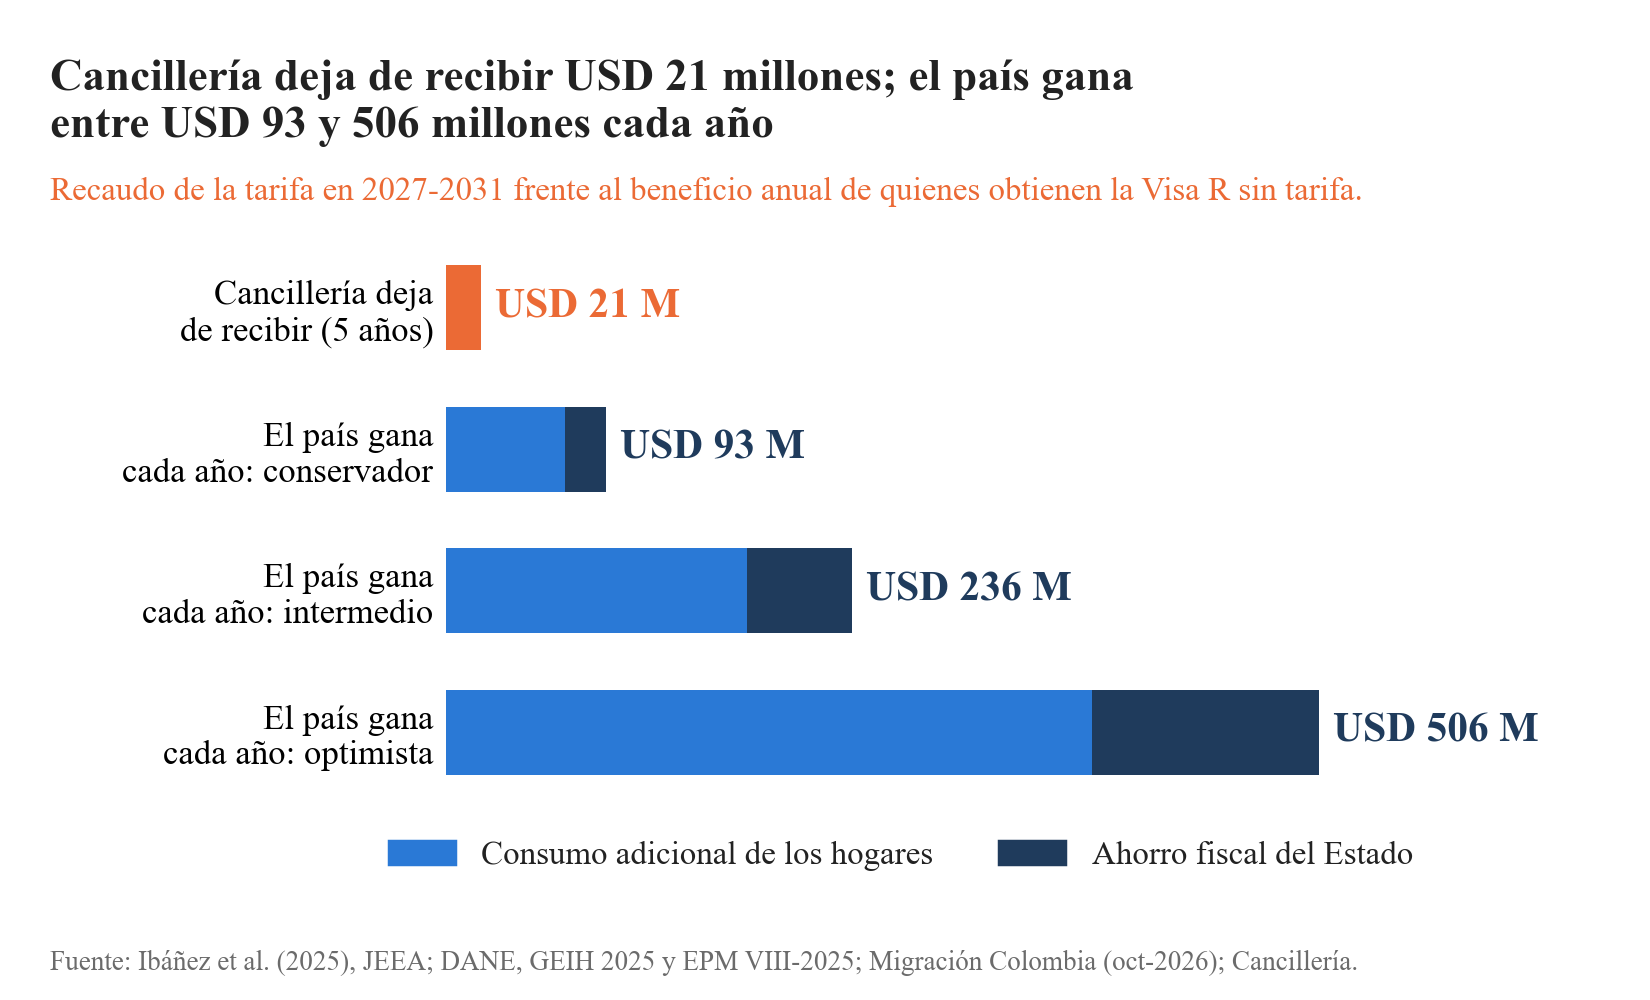
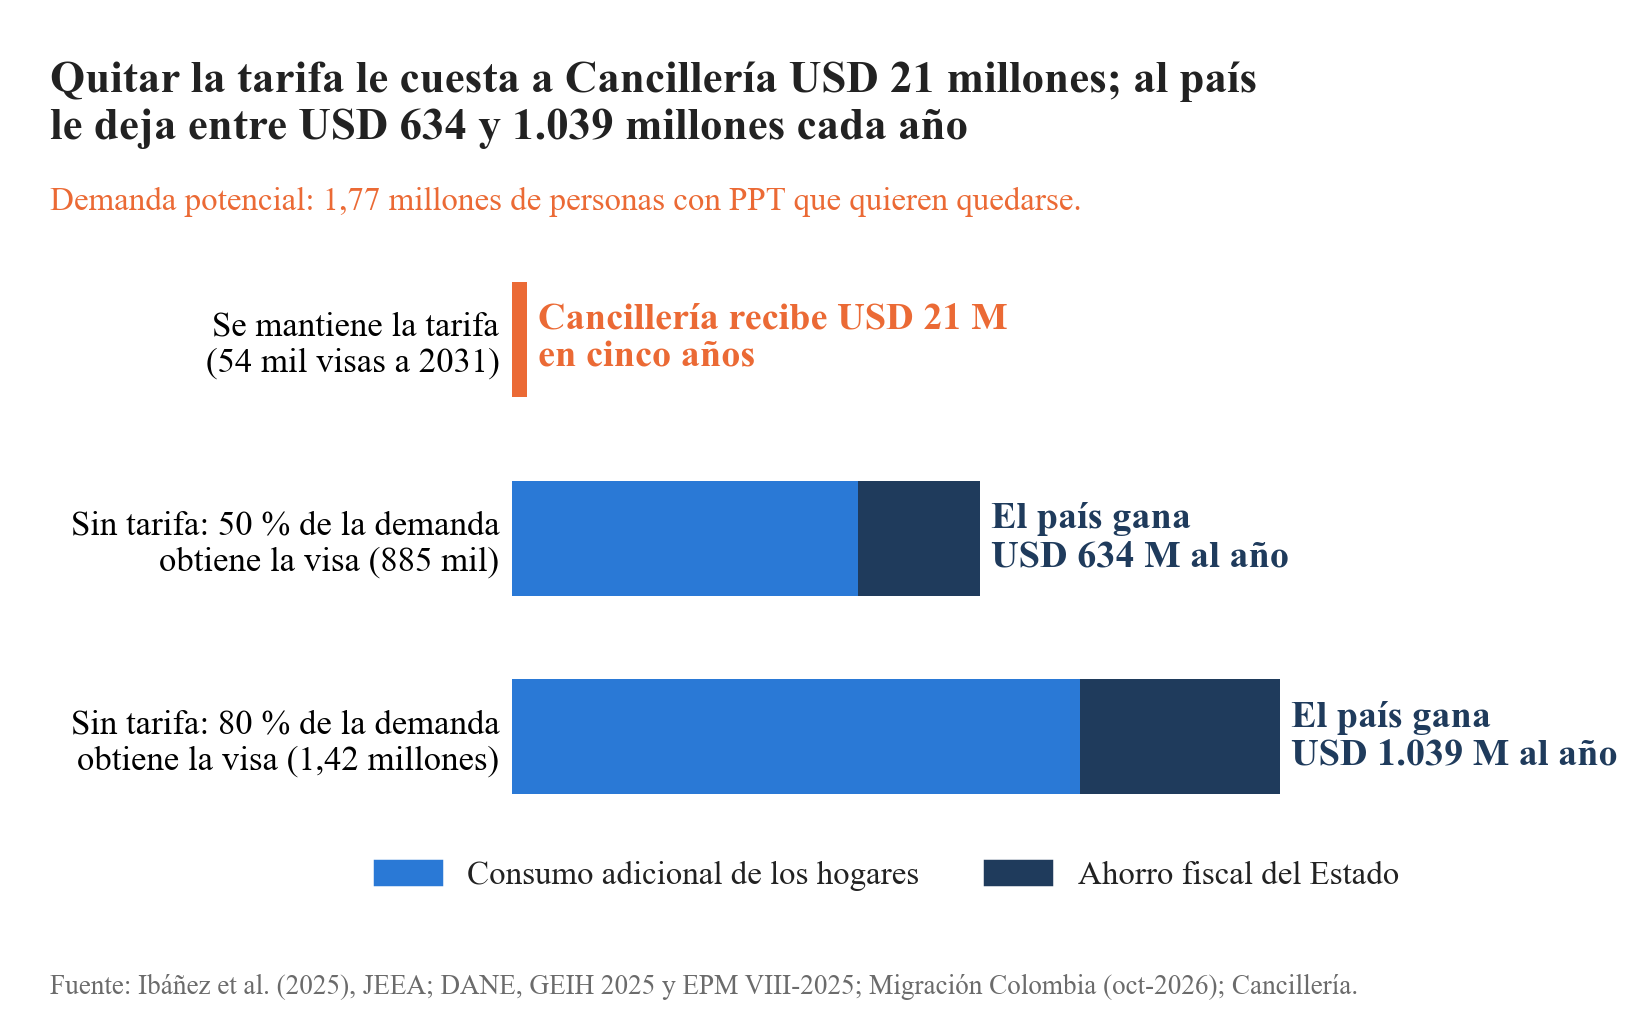
Grafico costo-beneficio con tres escenarios: tarifa, 50 % y 80 % de la demanda

diff --git a/Code/25_grafico_costo_beneficio_macro.py b/Code/25_grafico_costo_beneficio_macro.py
@@ -1,11 +1,15 @@
-"""Visa-R / 25: lo que Cancillería deja de recibir frente al beneficio económico para el país.
-Costo: recaudo de la tarifa con la tendencia de visas 2027-2031 = 44.580 visas x USD 464 = USD 20,7 M (en cinco años).
-Beneficio anual por cada persona adicional que conserva su estatus regular gracias a la gratuidad:
-  - Consumo adicional: el PEP aumenta 48 % el consumo por persona (Ibáñez et al., 2025, JEEA). Consumo base por persona =
-    masa salarial anual de los venezolanos (COP 13,8 billones, GEIH 2025) x (1 - 10 % ahorro - 10 % remesas) / 1,76 M venezolanos (GEIH 2025),
-    descompuesto entre regulares (66 %) e irregulares: C_irregular = C_promedio / (0,34 + 0,66 x 1,48). Ganancia = 0,48 x C_irregular.
+"""Visa-R / 25: lo que Cancillería deja de recibir frente al beneficio económico para el país (3 escenarios).
+Escenarios (sobre la demanda potencial: 1.770.136 personas con PPT que quieren quedarse):
+  1. Se mantiene la tarifa: visas por tendencia 2024-2026 = 53.733 a may-2031; Cancillería recauda 44.580 visas 2027-2031 x USD 464 = USD 20,7 M.
+  2. Sin tarifa, 50 % de la demanda obtiene la visa. Referencia: 54,8 % de los titulares de PPT abrió una cuenta financiera (EPM VIII-2025),
+     un paso formal voluntario que el permiso habilita y que exige trámites: cerca de la mitad lo da.
+  3. Sin tarifa, 80 % de la demanda obtiene la visa. Referencia: 81 % de los venezolanos con 5 años o más en Colombia está afiliado a salud
+     (GEIH 2025), un beneficio gratuito al que accede casi toda la población elegible. Por debajo de los techos: 86 % de quienes iniciaron el ETPV
+     obtuvo el PPT (Migración Colombia) y 89,6 % quiere quedarse (EPM).
+Beneficio anual por persona adicional con visa (frente al escenario 1):
+  - Consumo adicional: +48 % por el permiso (Ibáñez et al., 2025). Consumo base = masa salarial COP 13,8 billones x (1 - 10 % ahorro - 10 % remesas)
+    / 1,76 M venezolanos (GEIH 2025); C_irregular = C_promedio / (0,34 + 0,66 x 1,48); ganancia = 0,48 x C_irregular = USD 564 (TRM 4.052,86).
   - Ahorro fiscal: USD 198,29 por persona al año (Ibáñez et al., 2025; 2,25 venezolanos por hogar).
-Personas adicionales con visa (escenarios de conversión, Code/24): 122.340, 309.329 y 663.951. TRM 2025 = 4.052,86.
 Salida: Outputs/Figures/pr10_costo_vs_beneficio.png y Outputs/tables/t24_costo_vs_beneficio.csv"""
 from pathlib import Path
 import numpy as np
@@ -16,44 +20,50 @@ import matplotlib.pyplot as plt
 
 ROOT = Path(__file__).resolve().parents[1]
 TAB, FIG = ROOT / "Outputs" / "tables", ROOT / "Outputs" / "Figures"
-NAVY, BLUE, LBLUE, ORANGE, INK, GRAY = "#1f3b5c", "#2a79d6", "#9fc0ea", "#eb6a35", "#222222", "#6b6b6b"
+NAVY, BLUE, ORANGE, INK, GRAY = "#1f3b5c", "#2a79d6", "#eb6a35", "#222222", "#6b6b6b"
 NL = chr(10)
 plt.rcParams.update({"font.family": "serif", "font.serif": ["Times New Roman", "DejaVu Serif"], "font.size": 10, "text.color": INK,
                      "axes.edgecolor": "#555555", "axes.linewidth": 0.6, "axes.spines.top": False, "axes.spines.right": False})
 miles = lambda x: f"{x:,.0f}".replace(",", ".")
 
-TRM = 4052.86
+TRM, BASE, CON_TARIFA = 4052.86, 1_770_136, 53_733
 MASA, POB, AHORRO, REMESAS, COB, EFECTO = 13.8e12, 1.76e6, 0.10, 0.10, 0.66, 0.48
-c_prom = MASA * (1 - AHORRO - REMESAS) / POB
-c_irr = c_prom / ((1 - COB) + COB * (1 + EFECTO))
-gan_cons_usd = EFECTO * c_irr / TRM                 # consumo adicional por persona al año (USD)
-FISCAL = 198.29
-COSTO = 44_580 * 464 / 1e6
-pers = {"Conservador": 122_340, "Intermedio": 309_329, "Optimista": 663_951}
-cons = {k: v * gan_cons_usd / 1e6 for k, v in pers.items()}
-fis = {k: v * FISCAL / 1e6 for k, v in pers.items()}
-tot = {k: cons[k] + fis[k] for k in pers}
-pd.DataFrame({"escenario": list(pers), "personas_adicionales": list(pers.values()), "consumo_adicional_USD_M_anual": list(cons.values()),
-              "ahorro_fiscal_USD_M_anual": list(fis.values()), "beneficio_total_USD_M_anual": list(tot.values()),
-              "veces_el_recaudo_de_5_anios": [t / COSTO for t in tot.values()]}).round(1).to_csv(TAB / "t24_costo_vs_beneficio.csv", index=False)
+c_irr = MASA * (1 - AHORRO - REMESAS) / POB / ((1 - COB) + COB * (1 + EFECTO))
+CONS_PP = EFECTO * c_irr / TRM                       # consumo adicional por persona al año (USD)
+FISCAL_PP = 198.29
+COSTO = 44_580 * 464 / 1e6                           # recaudo de la tarifa 2027-2031 (USD M)
+TASAS = {"50 %": 0.50, "80 %": 0.80}
+con = {k: BASE * t for k, t in TASAS.items()}
+extra = {k: v - CON_TARIFA for k, v in con.items()}
+cons = {k: v * CONS_PP / 1e6 for k, v in extra.items()}
+fis = {k: v * FISCAL_PP / 1e6 for k, v in extra.items()}
+tot = {k: cons[k] + fis[k] for k in TASAS}
+pd.DataFrame({"escenario": ["Se mantiene la tarifa"] + [f"Sin tarifa, {k} de la demanda" for k in TASAS],
+              "con_visa_a_may_2031": [CON_TARIFA] + [round(con[k]) for k in TASAS],
+              "personas_adicionales": [0] + [round(extra[k]) for k in TASAS],
+              "recaudo_Cancilleria_USD_M_5_anios": [COSTO, 0, 0],
+              "consumo_adicional_USD_M_anual": [0] + [cons[k] for k in TASAS],
+              "ahorro_fiscal_USD_M_anual": [0] + [fis[k] for k in TASAS],
+              "beneficio_total_USD_M_anual": [0] + [tot[k] for k in TASAS]}).round(1).to_csv(TAB / "t24_costo_vs_beneficio.csv", index=False)
 
-fig, ax = plt.subplots(figsize=(6.6, 4.0)); fig.subplots_adjust(left=0.27, right=0.96, top=0.76, bottom=0.2)
-labs = ["Cancillería deja" + NL + "de recibir (5 años)"] + [f"El país gana" + NL + f"cada año: {k.lower()}" for k in pers]
-y = np.arange(4)[::-1]
-ax.barh(y[0], COSTO, 0.6, color=ORANGE)
-ax.text(COSTO + 8, y[0], f"USD {COSTO:.0f} M", va="center", fontsize=12, fontweight="bold", color=ORANGE)
-for yi, k in zip(y[1:], pers):
-    ax.barh(yi, cons[k], 0.6, color=BLUE)
-    ax.barh(yi, fis[k], 0.6, left=cons[k], color=NAVY)
-    ax.text(tot[k] + 8, yi, f"USD {tot[k]:.0f} M", va="center", fontsize=12, fontweight="bold", color=NAVY)
+fig, ax = plt.subplots(figsize=(6.6, 4.1)); fig.subplots_adjust(left=0.31, right=0.96, top=0.75, bottom=0.2)
+y = np.array([2, 1, 0])
+labs = ["Se mantiene la tarifa" + NL + f"({miles(CON_TARIFA / 1e3)} mil visas a 2031)",
+        "Sin tarifa: 50 % de la demanda" + NL + f"obtiene la visa ({miles(con['50 %'] / 1e3)} mil)",
+        "Sin tarifa: 80 % de la demanda" + NL + f"obtiene la visa (1,42 millones)"]
+ax.barh(y[0], COSTO, 0.58, color=ORANGE)
+ax.text(COSTO + 15, y[0], f"Cancillería recibe USD {COSTO:.0f} M" + NL + "en cinco años", va="center", fontsize=11, fontweight="bold", color=ORANGE)
+for yi, k in zip(y[1:], TASAS):
+    ax.barh(yi, cons[k], 0.58, color=BLUE); ax.barh(yi, fis[k], 0.58, left=cons[k], color=NAVY)
+    ax.text(tot[k] + 15, yi, f"El país gana" + NL + f"USD {miles(tot[k])} M al año", va="center", fontsize=11, fontweight="bold", color=NAVY)
 ax.set_yticks(y); ax.set_yticklabels(labs, fontsize=10); ax.tick_params(axis="y", length=0)
-ax.set_xticks([]); ax.spines["left"].set_visible(False); ax.spines["bottom"].set_visible(False); ax.set_xlim(0, 660)
+ax.set_xticks([]); ax.spines["left"].set_visible(False); ax.spines["bottom"].set_visible(False); ax.set_xlim(0, 1450)
 ax.legend(handles=[plt.Rectangle((0, 0), 1, 1, color=BLUE), plt.Rectangle((0, 0), 1, 1, color=NAVY)],
-          labels=["Consumo adicional de los hogares", "Ahorro fiscal del Estado"], loc="upper center", bbox_to_anchor=(0.4, -0.02), ncol=2, frameon=False, fontsize=9.5)
-fig.text(0.03, 0.94, f"Cancillería deja de recibir USD {COSTO:.0f} millones; el país gana" + NL + f"entre USD {min(tot.values()):.0f} y {max(tot.values()):.0f} millones cada año",
+          labels=["Consumo adicional de los hogares", "Ahorro fiscal del Estado"], loc="upper center", bbox_to_anchor=(0.35, -0.02), ncol=2, frameon=False, fontsize=9.5)
+fig.text(0.03, 0.94, f"Quitar la tarifa le cuesta a Cancillería USD {COSTO:.0f} millones; al país" + NL + f"le deja entre USD {miles(min(tot.values()))} y {miles(max(tot.values()))} millones cada año",
          fontsize=13, fontweight="bold", ha="left", va="top")
-fig.text(0.03, 0.8, "Recaudo de la tarifa en 2027-2031 frente al beneficio anual de quienes obtienen la Visa R sin tarifa.", fontsize=9.5, ha="left", color=ORANGE)
+fig.text(0.03, 0.795, "Demanda potencial: 1,77 millones de personas con PPT que quieren quedarse.", fontsize=9.5, ha="left", color=ORANGE)
 fig.text(0.03, 0.03, "Fuente: Ibáñez et al. (2025), JEEA; DANE, GEIH 2025 y EPM VIII-2025; Migración Colombia (oct-2026); Cancillería.", fontsize=7.8, color=GRAY, ha="left")
 fig.savefig(FIG / "pr10_costo_vs_beneficio.png", dpi=250, facecolor="white"); plt.close(fig)
-print("consumo base COP", round(c_prom), "irregular", round(c_irr), "ganancia USD", round(gan_cons_usd, 1), "costo", round(COSTO, 1), {k: round(v, 1) for k, v in tot.items()},
-      {k: round(v, 1) for k, v in cons.items()})
+print("por persona: consumo", round(CONS_PP, 1), "fiscal", FISCAL_PP, "| con visa", {k: round(v) for k, v in con.items()}, "| extra", {k: round(v) for k, v in extra.items()},
+      "| consumo M", {k: round(v, 1) for k, v in cons.items()}, "| fiscal M", {k: round(v, 1) for k, v in fis.items()}, "| total", {k: round(v, 1) for k, v in tot.items()})
